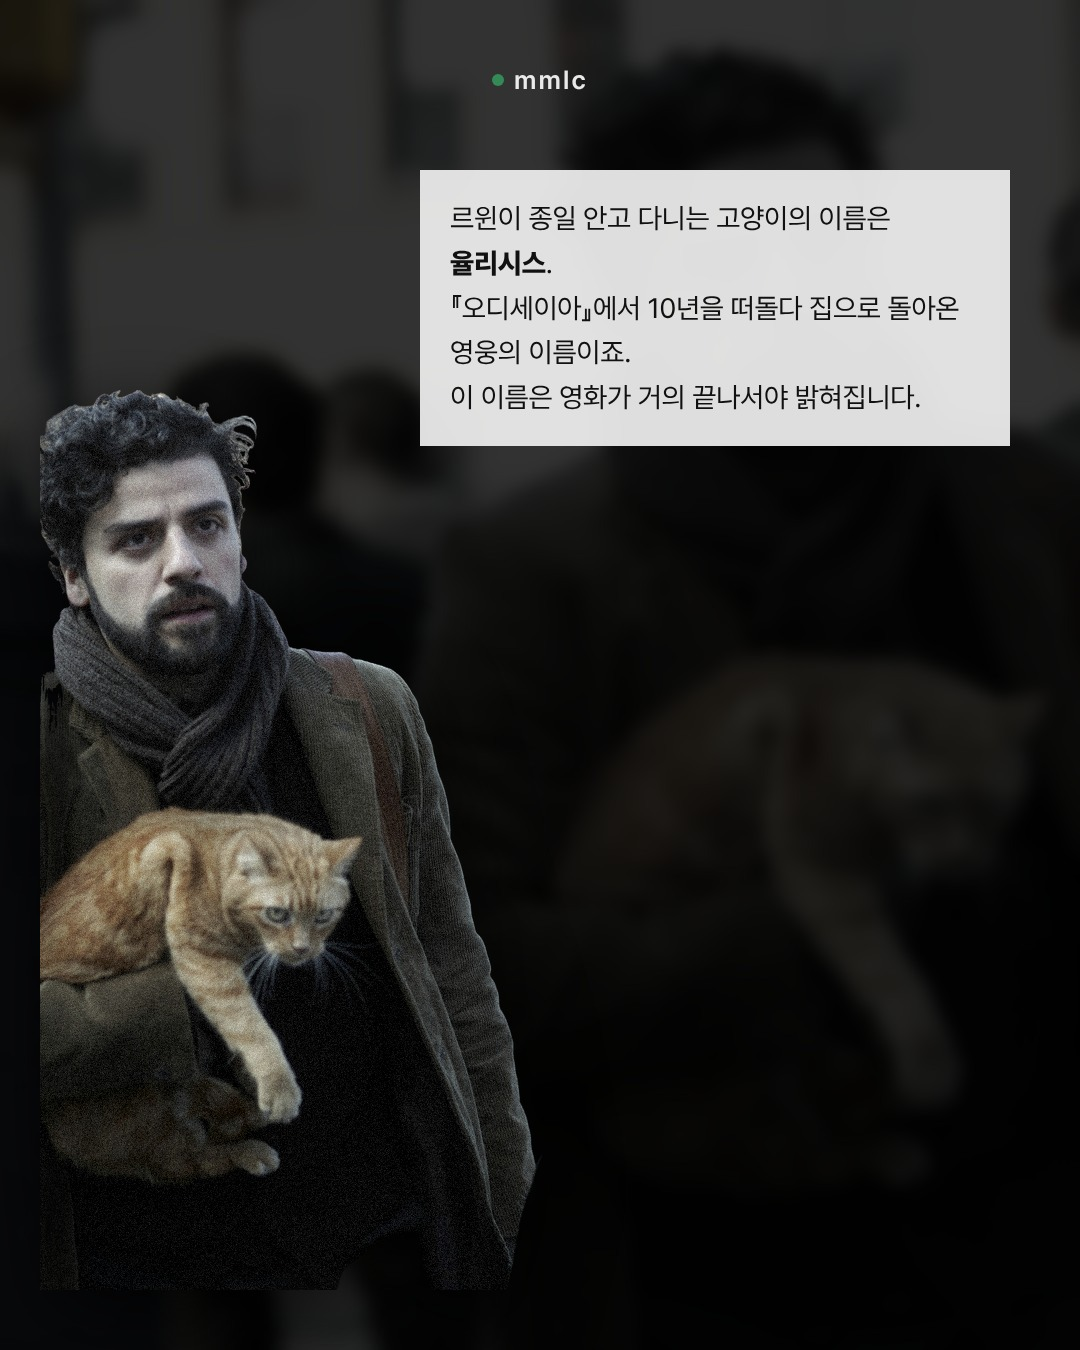
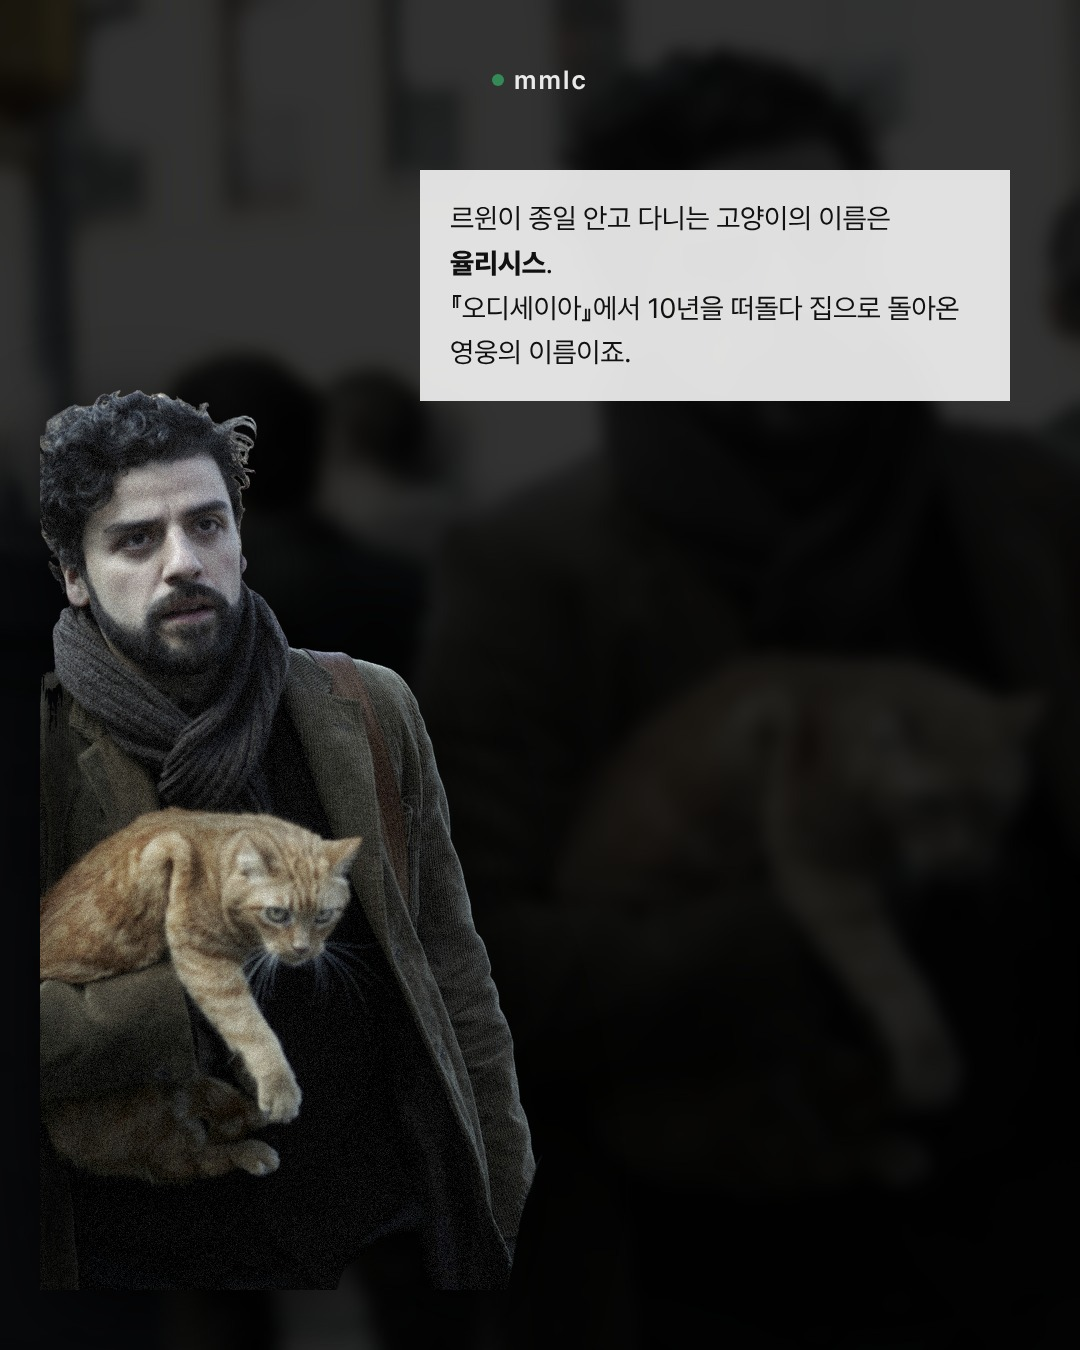
인사이드 르윈: 5장 마지막 문장 삭제
Claude-Session: https://claude.ai/code/session_01VEGji1Wx9t8xn4NvfBmGPJ

Changed region(s): [[0.3667, 0.28, 0.9472, 0.3422]]

diff --git a/templates/story-article/llewyn/render.py b/templates/story-article/llewyn/render.py
@@ -66,7 +66,7 @@ P.append(wrap(f'''<div class="pic" style="left:70px;top:150px;width:940px;height
 d2,cw2,ch2=png('cut_cat.png',900)
 P.append(wrap(f'''<div class="bg" style="background-image:url({bgdim('st2.jpg',0.2,0.5,0.2,8)})"></div>
 <img class="cut" src="{d2}" style="left:40px;top:{1350-ch2-60}px;width:{cw2}px">
-<div class="box" style="top:170px;left:420px;right:70px">르윈이 종일 안고 다니는 고양이의 이름은 <b>율리시스</b>.<br>『오디세이아』에서 10년을 떠돌다 집으로 돌아온 영웅의 이름이죠.<br>이 이름은 영화가 거의 끝나서야 밝혀집니다.</div>
+<div class="box" style="top:170px;left:420px;right:70px">르윈이 종일 안고 다니는 고양이의 이름은 <b>율리시스</b>.<br>『오디세이아』에서 10년을 떠돌다 집으로 돌아온 영웅의 이름이죠.</div>
 '''))
 # 6 awards — launch poster spotlight
 _pl=Image.open('post_launch1.jpg').convert('RGB'); _pl=tone(_pl.resize((W,int(_pl.height*W/_pl.width)),Image.LANCZOS))
